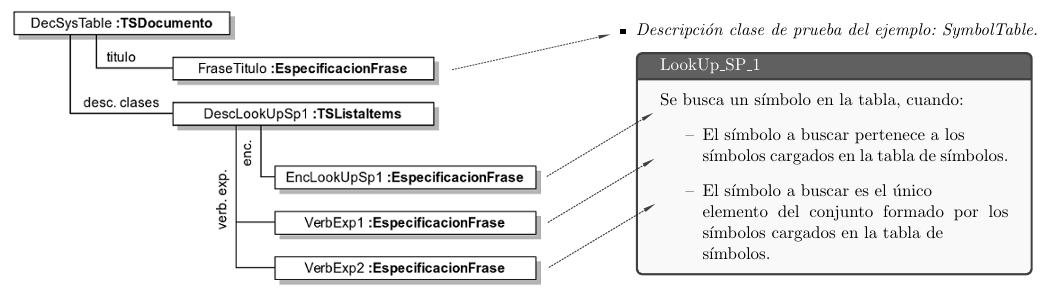
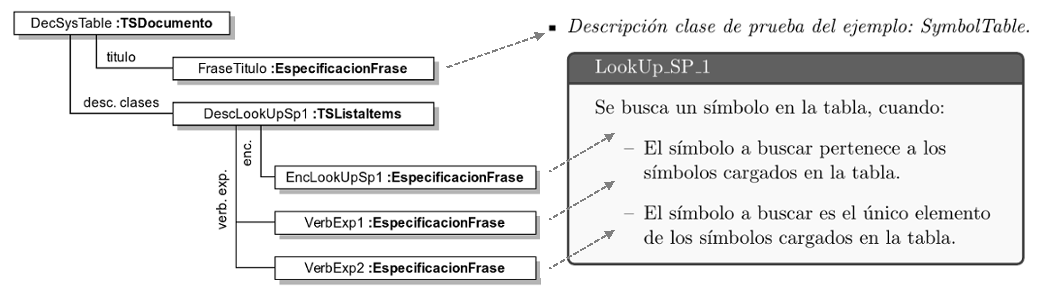
Pequeñas modificaciones en frases generadas para el ejemplo de la tabla de símbolos, para que sea consistente con el introducido en el corpus

Changed region(s): [[0.49, 0.059, 1.0, 0.9148], [0.4287, 0.1475, 0.49, 0.2361]]

diff --git a/sec/corpus.tex b/sec/corpus.tex
@@ -40,8 +40,8 @@ En la figura~\ref{fig:ej_corpus} podemos observar uno de los ejemplos incluidos 
   colbacktitle=gray!75!black,title=LookUp\_SP\_1]
   Se busca un símbolo en la tabla, cuando:
      \begin{itemize}
-  	    \item[--]{El símbolo a buscar pertenece a los símbolos cargados en la tabla de símbolos.}
-  	    \item[--]{El símbolo a buscar es el único elemento del conjunto formado por los símbolos cargados en la tabla de símbolos.}   
+  	    \item[--]{El símbolo a buscar pertenece a los símbolos cargados en la tabla.}
+        \item[--]{El símbolo a buscar es el único elemento de los símbolos cargados en la tabla.} 
      \end{itemize}
 \end{tcolorbox}
 
@@ -63,7 +63,7 @@ Podemos notar que las clases de prueba generadas por \emph{Fastest} se encuentra
 
 \begin{figure}[H]
 \centering
-\includegraphics[scale=0.3]{img/ej_test_desc.png}
+\includegraphics[scale=0.4]{img/ej_test_desc.png}
 \caption{Estructura descripciones}
 \label{fig:ej_test_desc}
 \end{figure}
@@ -79,8 +79,8 @@ Podemos notar dos aspectos fundamentales sobre la \emph{verbalización} de expre
 
 \bigskip
 \begin{enumerate}
-	\item $s? \in \dom st$ $\rightarrow$ \emph{``El símbolo a buscar \textbf{pertenece a} los símbolos cargados en la tabla de símbolos.''}
-	\item $s? \in \dom st$ $\rightarrow$ \emph{``El número de cuenta \textbf{pertenece a} los números de cuenta cargados en el banco.''}
+	\item $s? \in \dom st$ $\rightarrow$ \emph{``El símbolo a buscar \textbf{pertenece a}  a los símbolos cargados en la tabla.''}
+	\item $s? \in \dom st$ $\rightarrow$ \emph{``El número de cuenta del nuevo cliente \textbf{pertenece a} a los números de cuenta cargados en el banco.''}
 \end{enumerate}
 
 \bigskip

diff --git a/sec/realizacion.tex b/sec/realizacion.tex
@@ -33,7 +33,7 @@ LookUp\_SP\_1: Se busca un símbolo en la tabla, cuando:
 \begin{itemize}
   \item El símbolo a buscar pertenece a los símbolos
     cargados en la tabla.
-  \item El símbolo a buscar es el único elemento en los
+  \item El símbolo a buscar es el único elemento de los
     símbolos cargados en la tabla.  
 \end{itemize}
 
@@ -64,7 +64,7 @@ Es evidente que esta etapa será dependiente del sistema de presentación escogi
   <ul>
     <li>El símbolo a buscar pertenece a los símbolos 
         cargados en la tabla.</li>
-    <li>El símbolo a buscar es el único elemento en los 
+    <li>El símbolo a buscar es el único elemento de los 
         símbolos cargados en la tabla.</li>
   </ul>
 

diff --git a/sec/implementacion.tex b/sec/implementacion.tex
@@ -56,11 +56,10 @@ Fastest> showdesc -t "Descripción clase de prueba: LookUp_SP_1" LookUp_SP_1
 \begin{document}
 \maketitle
 
-LookUp_SP_1: Se intenta buscar un simbolo en la tabla
-Cuando:
+LookUp_SP_1: Se intenta buscar un simbolo en la tabla, cuando:
 \begin{itemize}
- \item{El simbolo a buscar pertenece a los simbolos cargados en la tabla.}
- \item{El simbolo a buscar es el único elemento en los simbolos cargados en la tabla.}
+ \item El simbolo a buscar pertenece a los simbolos cargados en la tabla.
+ \item El simbolo a buscar es el único elemento de los simbolos cargados en la tabla.
 \end{itemize}
 
 \end{document}

diff --git a/sec/ttf.tex b/sec/ttf.tex
@@ -327,8 +327,8 @@ La primera expresión pertenece a una clase de prueba generada para la operació
 
 \begin{figure}[H]
 \begin{enumerate}
-\item \emph{``El símbolo a buscar es el único cargado en la tabla de símbolos.''}
-\item \emph{``El número de caja de ahorro ingresado es el único cargado en el banco.''}
+\item \emph{``El símbolo a buscar es el único elemento de los símbolos cargados en la tabla.''}
+\item \emph{``El número de cuenta del nuevo cliente es el único elemento de los números de cuenta cargados en el banco.''}
 \end{enumerate}
 \end{figure}
 

diff --git a/sec/estructura_documento.tex b/sec/estructura_documento.tex
@@ -80,8 +80,8 @@ se encuentran, respectivamente, descritas por las siguientes frases:
 
 \medskip
 \begin{enumerate}
- \item{\emph{``El símbolo a buscar pertenece a los símbolos cargados en la tabla de símbolos.''}}
- \item{\emph{``El símbolo a buscar es el único elemento del conjunto formado por los símbolos cargados en la tabla de símbolos.''}}
+ \item{\emph{``El símbolo a buscar pertenece a los símbolos cargados en la tabla.''}}
+ \item{\emph{``El símbolo a buscar es el único elemento de los símbolos cargados en la tabla.''}}
 \end{enumerate}
 
 \bigskip
